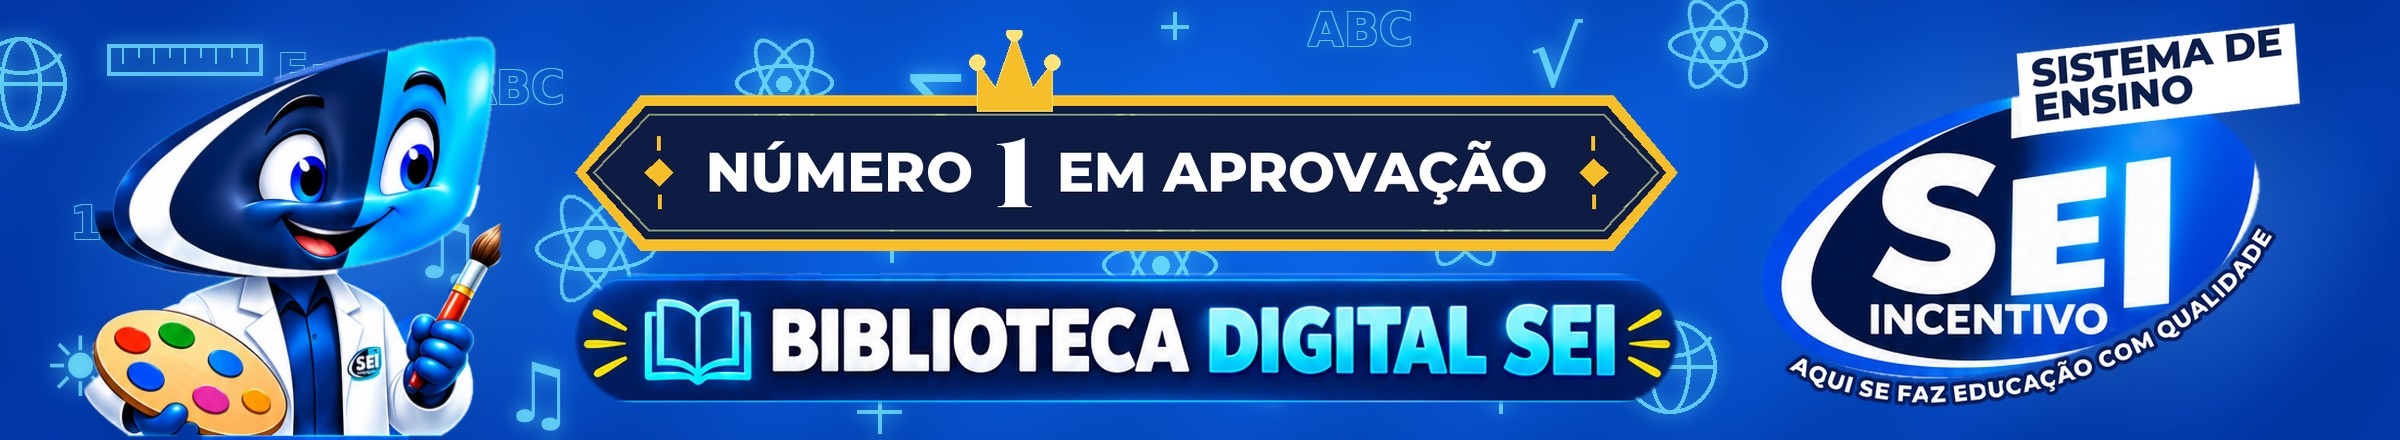
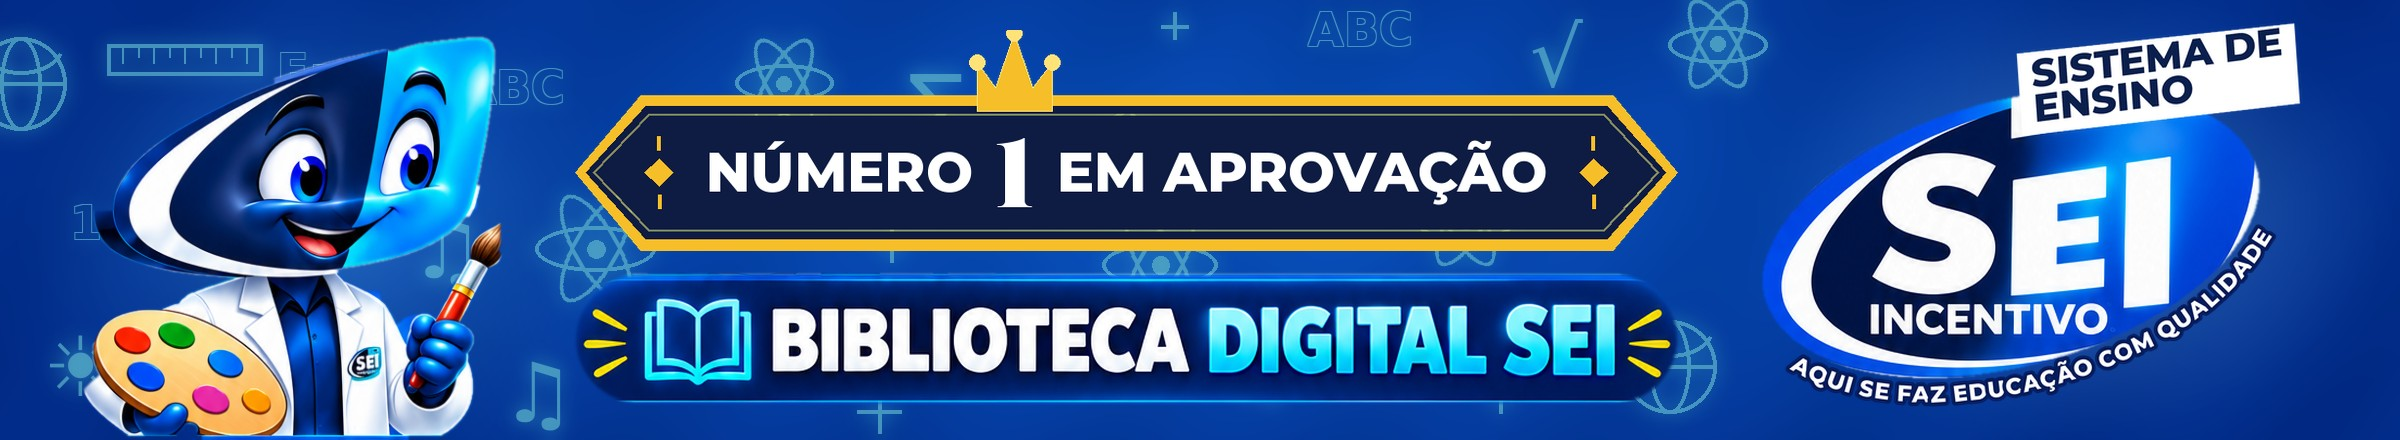
Cabeçalho largo e área das etapas com azul mais escuro
Claude-Session: https://claude.ai/code/session_01EnA51XFdjbCxLqLpJXARBK

diff --git a/index.html b/index.html
@@ -17,4 +17,4 @@
 .math-meta{grid-template-columns:minmax(0,1fr) minmax(0,1fr)!important}
 @media(max-width:600px){.meta,.math-meta{grid-template-columns:minmax(0,1fr)!important}}
 @media print{.meta,.math-meta{grid-template-columns:1fr 1fr!important}}
-</style><style>.sei-preview-notice{max-width:850px;margin:15px auto;padding:12px 16px;border-radius:8px;background:#fff3d5;color:#604000;font-weight:600}.original-page{width:100%;height:auto;display:block}@media print{#print-area .original-physics{width:100%;margin:0!important}#print-area .original-page{width:100%;height:auto;max-height:277mm;object-fit:contain}@page{size:A4;margin:10mm}}</style><link rel="stylesheet" href="portal.css?v=28-escuro"><link rel="stylesheet" href="impressao.css?v=3-estilo"><link rel="manifest" href="manifest.webmanifest"><meta name="theme-color" content="#0b2a5b"><link rel="apple-touch-icon" href="assets/portal/icone-192.png"></head><body><header><h1>SEI | Biblioteca Digital</h1><p>Sistema de Ensino Incentivo · São Miguel do Guamá — PA</p></header><main class="wrap"><div id="crumb" class="crumb"></div><h2 id="title"></h2><div id="content" class="grid"></div></main><section id="offline" class="offline-box" aria-label="Usar sem internet"><div class="ob"><button id="obInstalar" hidden>⬇ Instalar aplicativo</button><button id="obBaixar" title="Baixa tudo uma vez (cerca de 500 MB) para usar sem internet">📥 Usar sem internet</button></div><p id="obMsg"></p></section><footer><div class="contatos"><a href="https://wa.me/5591981248323" target="_blank" rel="noopener"><span class="ic wa">✆</span>(91) 9 8124-8323</a><a href="https://www.instagram.com/_sei01/" target="_blank" rel="noopener"><span class="ic ig">◎</span>@_sei01</a><a href="https://www.google.com/maps/search/?api=1&query=Travessa+Padre+S%C3%A1tiro%2C+442%2C+S%C3%A3o+Miguel+do+Guam%C3%A1+PA" target="_blank" rel="noopener"><span class="ic mp">📍</span>Tv. Padre Sátiro, 442 – São Miguel do Guamá/PA</a></div>AQUI SE FAZ EDUCAÇÃO COM QUALIDADE</footer><div id="print-area"></div><script src="biblioteca.js?v=2-espanhol"></script><script src="catalogo.js?v=17-estilo"></script><script src="sei-header-art.js?v=1"></script><script src="sei-standard.js?v=2-convenio"></script><script src="modelo-word.js?v=10-standard"></script><script src="assets/vendor/jszip.min.js"></script><script src="ajustar-word.js?v=1"></script><script src="impressao.js?v=3-convenio"></script><script src="portal.js?v=38-estilo"></script><script src="offline.js?v=2"></script><script>(function(){let ev=null;const bi=document.getElementById("obInstalar"),bb=document.getElementById("obBaixar"),m=document.getElementById("obMsg");addEventListener("beforeinstallprompt",e=>{e.preventDefault();ev=e;bi.hidden=false});bi.onclick=async()=>{if(!ev)return;ev.prompt();await ev.userChoice;ev=null;bi.hidden=true};try{const t=localStorage.getItem("sei-offline");if(t)m.textContent="Já baixado para uso offline em "+new Date(+t).toLocaleDateString("pt-BR")+". Clique de novo para atualizar."}catch(e){}bb.onclick=async()=>{if(!window.seiBaixarTudo){m.textContent="Este navegador não permite uso offline.";return}bb.disabled=true;try{if(navigator.storage&&navigator.storage.persist)await navigator.storage.persist()}catch(e){}const r=await seiBaixarTudo((d,t,f)=>{m.textContent="Baixando… "+d+" de "+t+" arquivos ("+Math.round(d/t*100)+"%)"+(f?" · "+f+" falharam":"")});m.textContent=r.falha?"Baixados "+r.ok+" de "+r.total+". "+r.falha+" falharam — clique de novo com internet para completar.":"Pronto! Tudo baixado ("+r.total+" arquivos). Agora funciona sem internet.";bb.disabled=false}})();</script></body></html>
+</style><style>.sei-preview-notice{max-width:850px;margin:15px auto;padding:12px 16px;border-radius:8px;background:#fff3d5;color:#604000;font-weight:600}.original-page{width:100%;height:auto;display:block}@media print{#print-area .original-physics{width:100%;margin:0!important}#print-area .original-page{width:100%;height:auto;max-height:277mm;object-fit:contain}@page{size:A4;margin:10mm}}</style><link rel="stylesheet" href="portal.css?v=29-escuro"><link rel="stylesheet" href="impressao.css?v=3-estilo"><link rel="manifest" href="manifest.webmanifest"><meta name="theme-color" content="#0b2a5b"><link rel="apple-touch-icon" href="assets/portal/icone-192.png"></head><body><header><h1>SEI | Biblioteca Digital</h1><p>Sistema de Ensino Incentivo · São Miguel do Guamá — PA</p></header><main class="wrap"><div id="crumb" class="crumb"></div><h2 id="title"></h2><div id="content" class="grid"></div></main><section id="offline" class="offline-box" aria-label="Usar sem internet"><div class="ob"><button id="obInstalar" hidden>⬇ Instalar aplicativo</button><button id="obBaixar" title="Baixa tudo uma vez (cerca de 500 MB) para usar sem internet">📥 Usar sem internet</button></div><p id="obMsg"></p></section><footer><div class="contatos"><a href="https://wa.me/5591981248323" target="_blank" rel="noopener"><span class="ic wa">✆</span>(91) 9 8124-8323</a><a href="https://www.instagram.com/_sei01/" target="_blank" rel="noopener"><span class="ic ig">◎</span>@_sei01</a><a href="https://www.google.com/maps/search/?api=1&query=Travessa+Padre+S%C3%A1tiro%2C+442%2C+S%C3%A3o+Miguel+do+Guam%C3%A1+PA" target="_blank" rel="noopener"><span class="ic mp">📍</span>Tv. Padre Sátiro, 442 – São Miguel do Guamá/PA</a></div>AQUI SE FAZ EDUCAÇÃO COM QUALIDADE</footer><div id="print-area"></div><script src="biblioteca.js?v=2-espanhol"></script><script src="catalogo.js?v=17-estilo"></script><script src="sei-header-art.js?v=1"></script><script src="sei-standard.js?v=2-convenio"></script><script src="modelo-word.js?v=10-standard"></script><script src="assets/vendor/jszip.min.js"></script><script src="ajustar-word.js?v=1"></script><script src="impressao.js?v=3-convenio"></script><script src="portal.js?v=38-estilo"></script><script src="offline.js?v=2"></script><script>(function(){let ev=null;const bi=document.getElementById("obInstalar"),bb=document.getElementById("obBaixar"),m=document.getElementById("obMsg");addEventListener("beforeinstallprompt",e=>{e.preventDefault();ev=e;bi.hidden=false});bi.onclick=async()=>{if(!ev)return;ev.prompt();await ev.userChoice;ev=null;bi.hidden=true};try{const t=localStorage.getItem("sei-offline");if(t)m.textContent="Já baixado para uso offline em "+new Date(+t).toLocaleDateString("pt-BR")+". Clique de novo para atualizar."}catch(e){}bb.onclick=async()=>{if(!window.seiBaixarTudo){m.textContent="Este navegador não permite uso offline.";return}bb.disabled=true;try{if(navigator.storage&&navigator.storage.persist)await navigator.storage.persist()}catch(e){}const r=await seiBaixarTudo((d,t,f)=>{m.textContent="Baixando… "+d+" de "+t+" arquivos ("+Math.round(d/t*100)+"%)"+(f?" · "+f+" falharam":"")});m.textContent=r.falha?"Baixados "+r.ok+" de "+r.total+". "+r.falha+" falharam — clique de novo com internet para completar.":"Pronto! Tudo baixado ("+r.total+" arquivos). Agora funciona sem internet.";bb.disabled=false}})();</script></body></html>

diff --git a/portal.css b/portal.css
@@ -107,8 +107,8 @@ footer .contatos .mp{background:#fff;font-size:12px}
 /* ===== Computador (≥1100px): layout próprio ===== */
 @media screen and (min-width:1100px){
  /* Início: arte do topo + etapas com as mesmas ilustrações do celular */
- .portal-home{max-width:1200px;margin:24px auto;padding:22px 24px 26px;display:grid;grid-template-columns:repeat(4,minmax(0,1fr));gap:18px;border-radius:22px;background:#0a3a9c url(assets/portal/fundo-etapas.jpg?v=3) center top/cover no-repeat;overflow:hidden;box-shadow:0 10px 30px rgba(0,0,0,.35)}
- .portal-home .portal-art{grid-column:1/-1;content:url(assets/portal/cabecalho-largo.jpg?v=7);width:calc(100% + 48px);max-width:none;height:auto;aspect-ratio:2400/440;object-fit:cover;margin:-22px -24px 4px;border-radius:22px 22px 0 0}
+ .portal-home{max-width:1200px;margin:24px auto;padding:22px 24px 26px;display:grid;grid-template-columns:repeat(4,minmax(0,1fr));gap:18px;border-radius:22px;background:#0a3a9c url(assets/portal/fundo-etapas.jpg?v=4) center top/cover no-repeat;overflow:hidden;box-shadow:0 10px 30px rgba(0,0,0,.35)}
+ .portal-home .portal-art{grid-column:1/-1;content:url(assets/portal/cabecalho-largo.jpg?v=8);width:calc(100% + 48px);max-width:none;height:auto;aspect-ratio:2400/440;object-fit:cover;margin:-22px -24px 4px;border-radius:22px 22px 0 0}
  .portal-home::before{content:'';grid-column:1/-1;order:1;justify-self:center;width:min(100%,760px);aspect-ratio:724/104;background:url(assets/portal/titulo-materiais-claro.png?v=1) center/contain no-repeat,radial-gradient(closest-side,rgba(5,30,95,.92),rgba(5,30,95,.6) 60%,rgba(5,30,95,0));margin:6px 0 4px;padding:18px 0}
  .portal-home::after{content:none}
  .portal-home .portal-entry{order:2;position:relative;inset:auto;width:auto;height:auto;min-height:0;padding:0;border:0;border-radius:16px;grid-column:span 1;aspect-ratio:481/280;
@@ -128,7 +128,7 @@ footer .contatos .mp{background:#fff;font-size:12px}
 
  /* Cabeçalho das páginas internas: faixa compacta */
  body>header{max-width:1200px;margin:20px auto 0;border-radius:18px 18px 0 0;overflow:hidden;background:linear-gradient(90deg,#0a3a9c,#0b3fa8)}
- .portal-brand{aspect-ratio:2400/440;height:auto;display:block;background:url(assets/portal/cabecalho-largo.jpg?v=7) center/cover no-repeat}
+ .portal-brand{aspect-ratio:2400/440;height:auto;display:block;background:url(assets/portal/cabecalho-largo.jpg?v=8) center/cover no-repeat}
  .portal-brand img{display:none}
  .wrap{max-width:1200px;padding:20px 28px 28px}
  .portal-grid{grid-template-columns:repeat(auto-fill,minmax(250px,1fr))}
